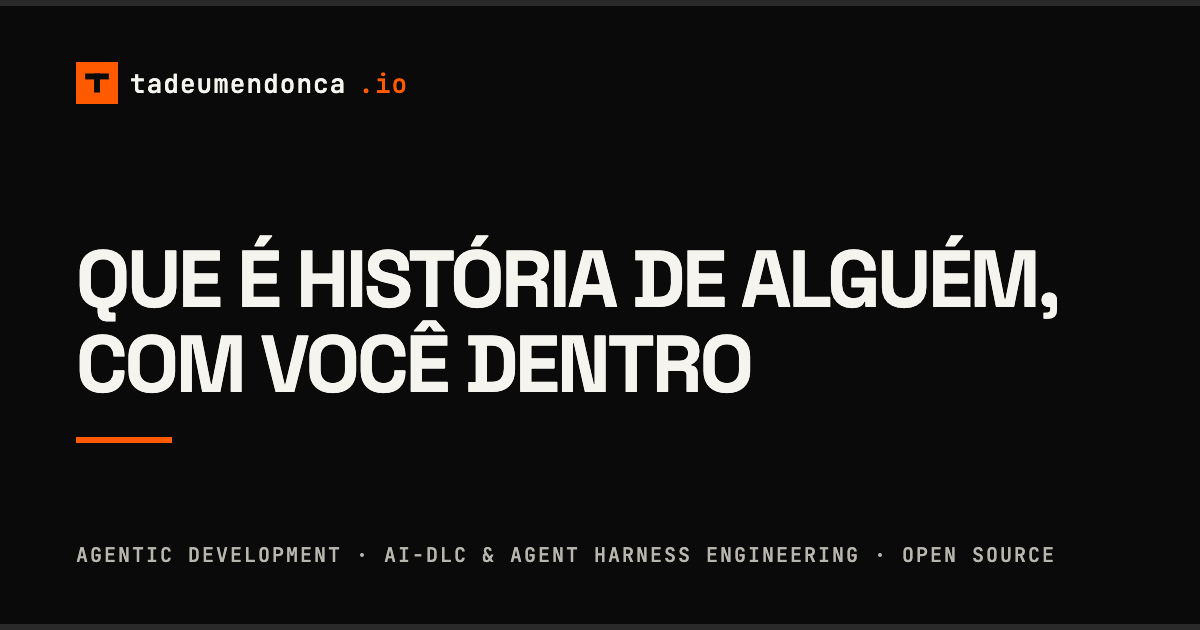
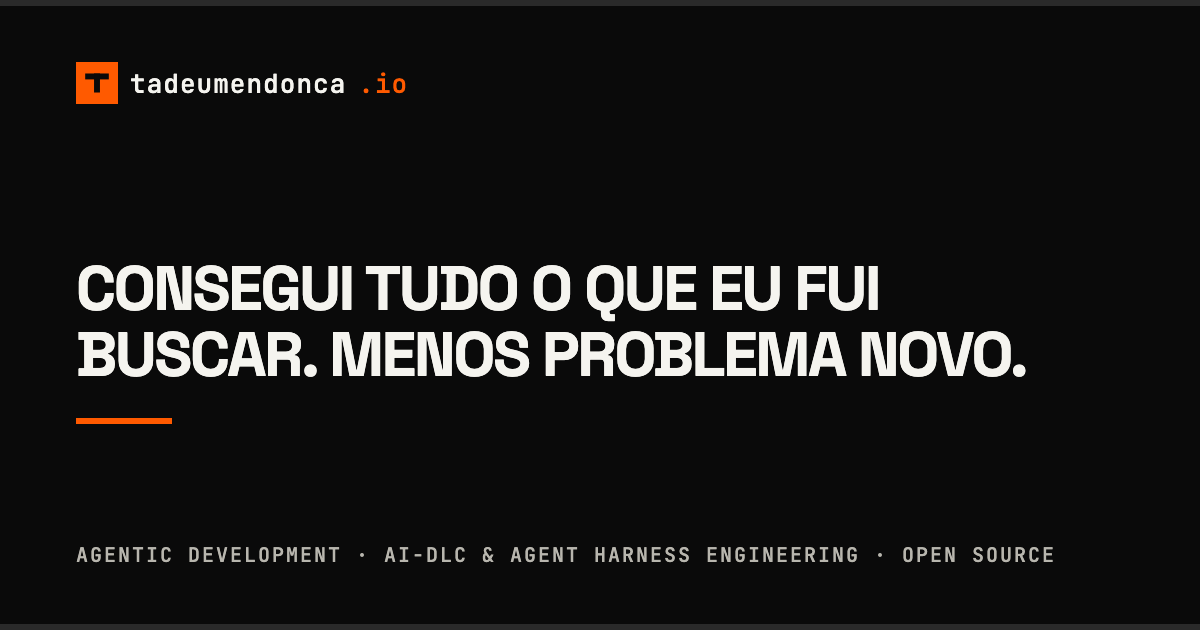
content(blog): redraft the badge article title in both editions
The first attempt is withdrawn. The owner's rejection was that he could not
work out what the title was saying about this piece, which is a
comprehension failure rather than a preference — so the English rendering
was never the thing to fix.

What was wrong with it: "Que é história de alguém, com você dentro" states a
thesis about the reader, not the subject of the article. It is a true
observation about the piece and it is not what the piece is about, and its
second half only resolves once you have already read the thing. Someone
scanning the home page or seeing the card in a feed cannot tell what they
get by clicking.

The original title had the opposite problem. "O Problema Parou de Variar"
named the subject correctly and reported it as a finding pinned to a board —
no person in it, nothing at stake, nothing lost — so restoring it was not
available either.

This title carries the argument the piece actually makes: he went after
hyper-exposure to leading-edge technology, he got it, and what stopped
arriving was a new problem. Both halves are his own words, lifted from the
article — "o que eu fui buscar" is its own section heading, and "problema
novo" is the sentence in the section on what changed. The turn resolves
inside the title, which is exactly what the withdrawn one failed to do.

Four other candidates per locale are on the PR with what each promises and
what each gives up. The line is the owner's to pick.
[…]

Changed region(s): [[0.0617, 0.3619, 0.8942, 0.6333], [0.0617, 0.6635, 0.1542, 0.7238]]

diff --git a/apps/fed/src/content/blog/the-problem-stopped-changing.en.md b/apps/fed/src/content/blog/the-problem-stopped-changing.en.md
@@ -1,5 +1,5 @@
 ---
-title: "And it is someone's story, with you in it"
+title: "I got everything I went looking for. Except a new problem."
 slug: the-problem-stopped-changing
 date: '2026-08-21T12:00:00.000Z'
 tag: career

diff --git a/apps/fed/src/content/blog/the-problem-stopped-changing.pt.md b/apps/fed/src/content/blog/the-problem-stopped-changing.pt.md
@@ -1,5 +1,5 @@
 ---
-title: "Que é história de alguém, com você dentro"
+title: "Consegui tudo o que eu fui buscar. Menos problema novo."
 slug: o-problema-parou-de-variar
 date: '2026-08-21T12:00:00.000Z'
 tag: career
